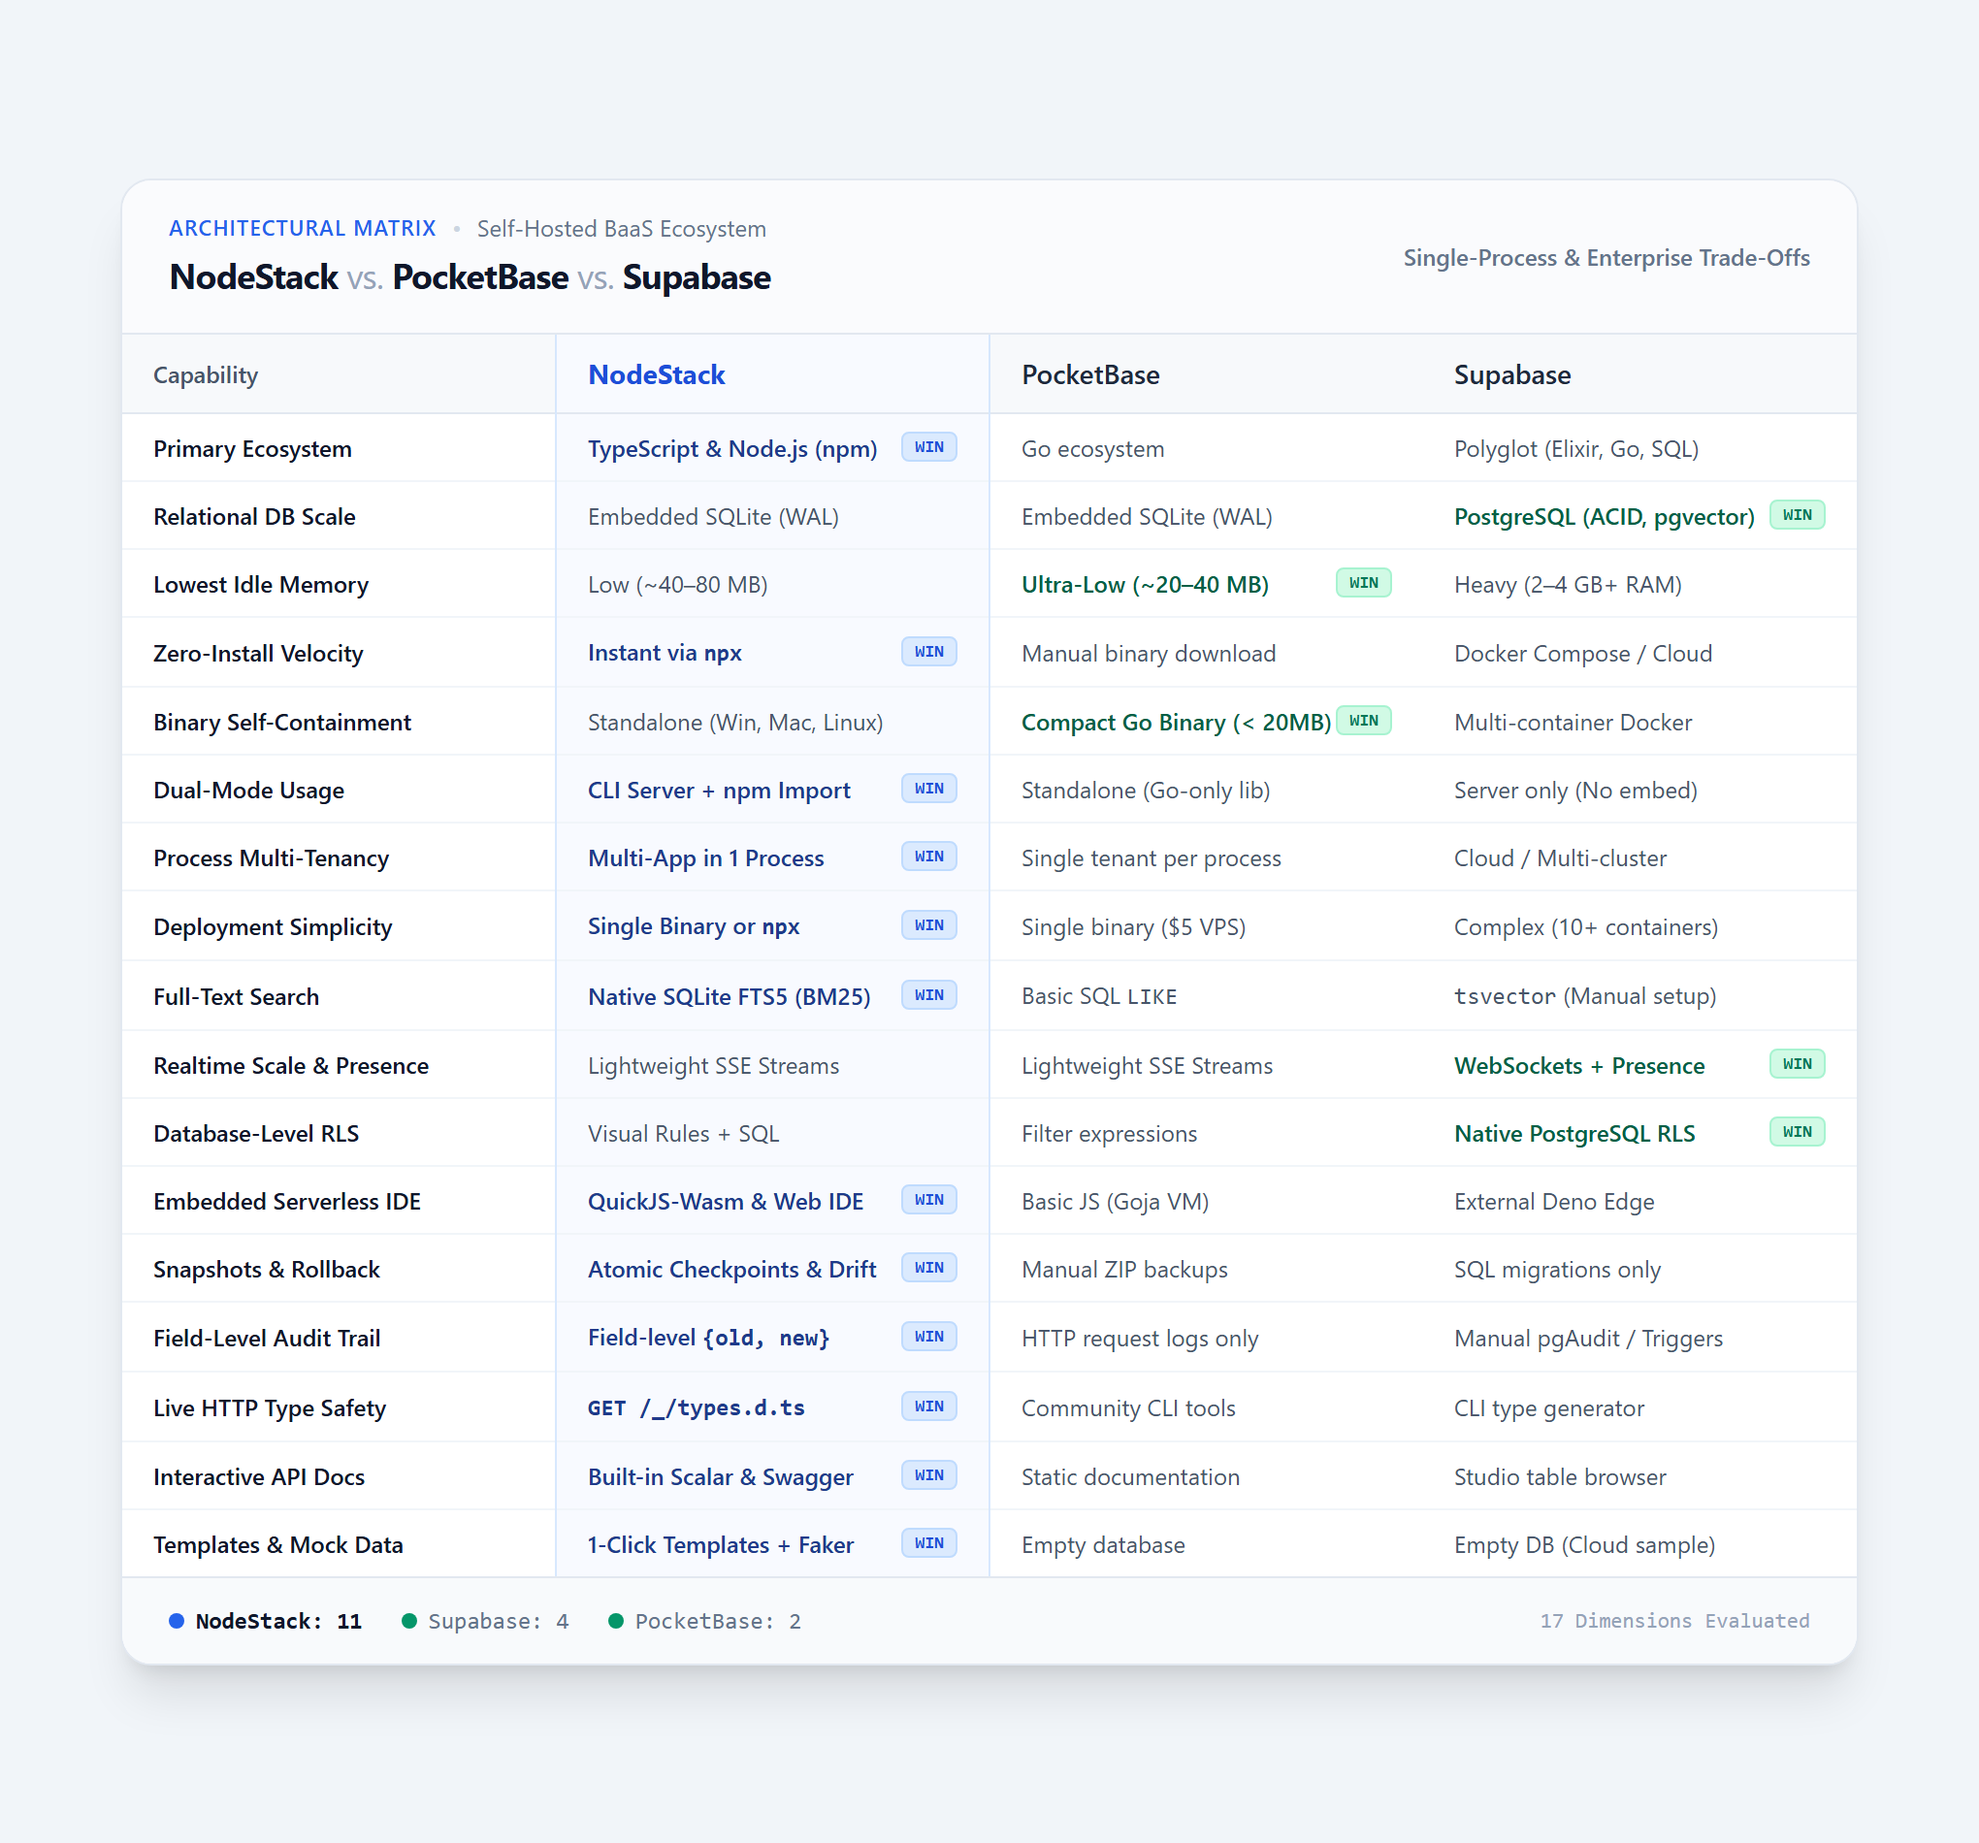
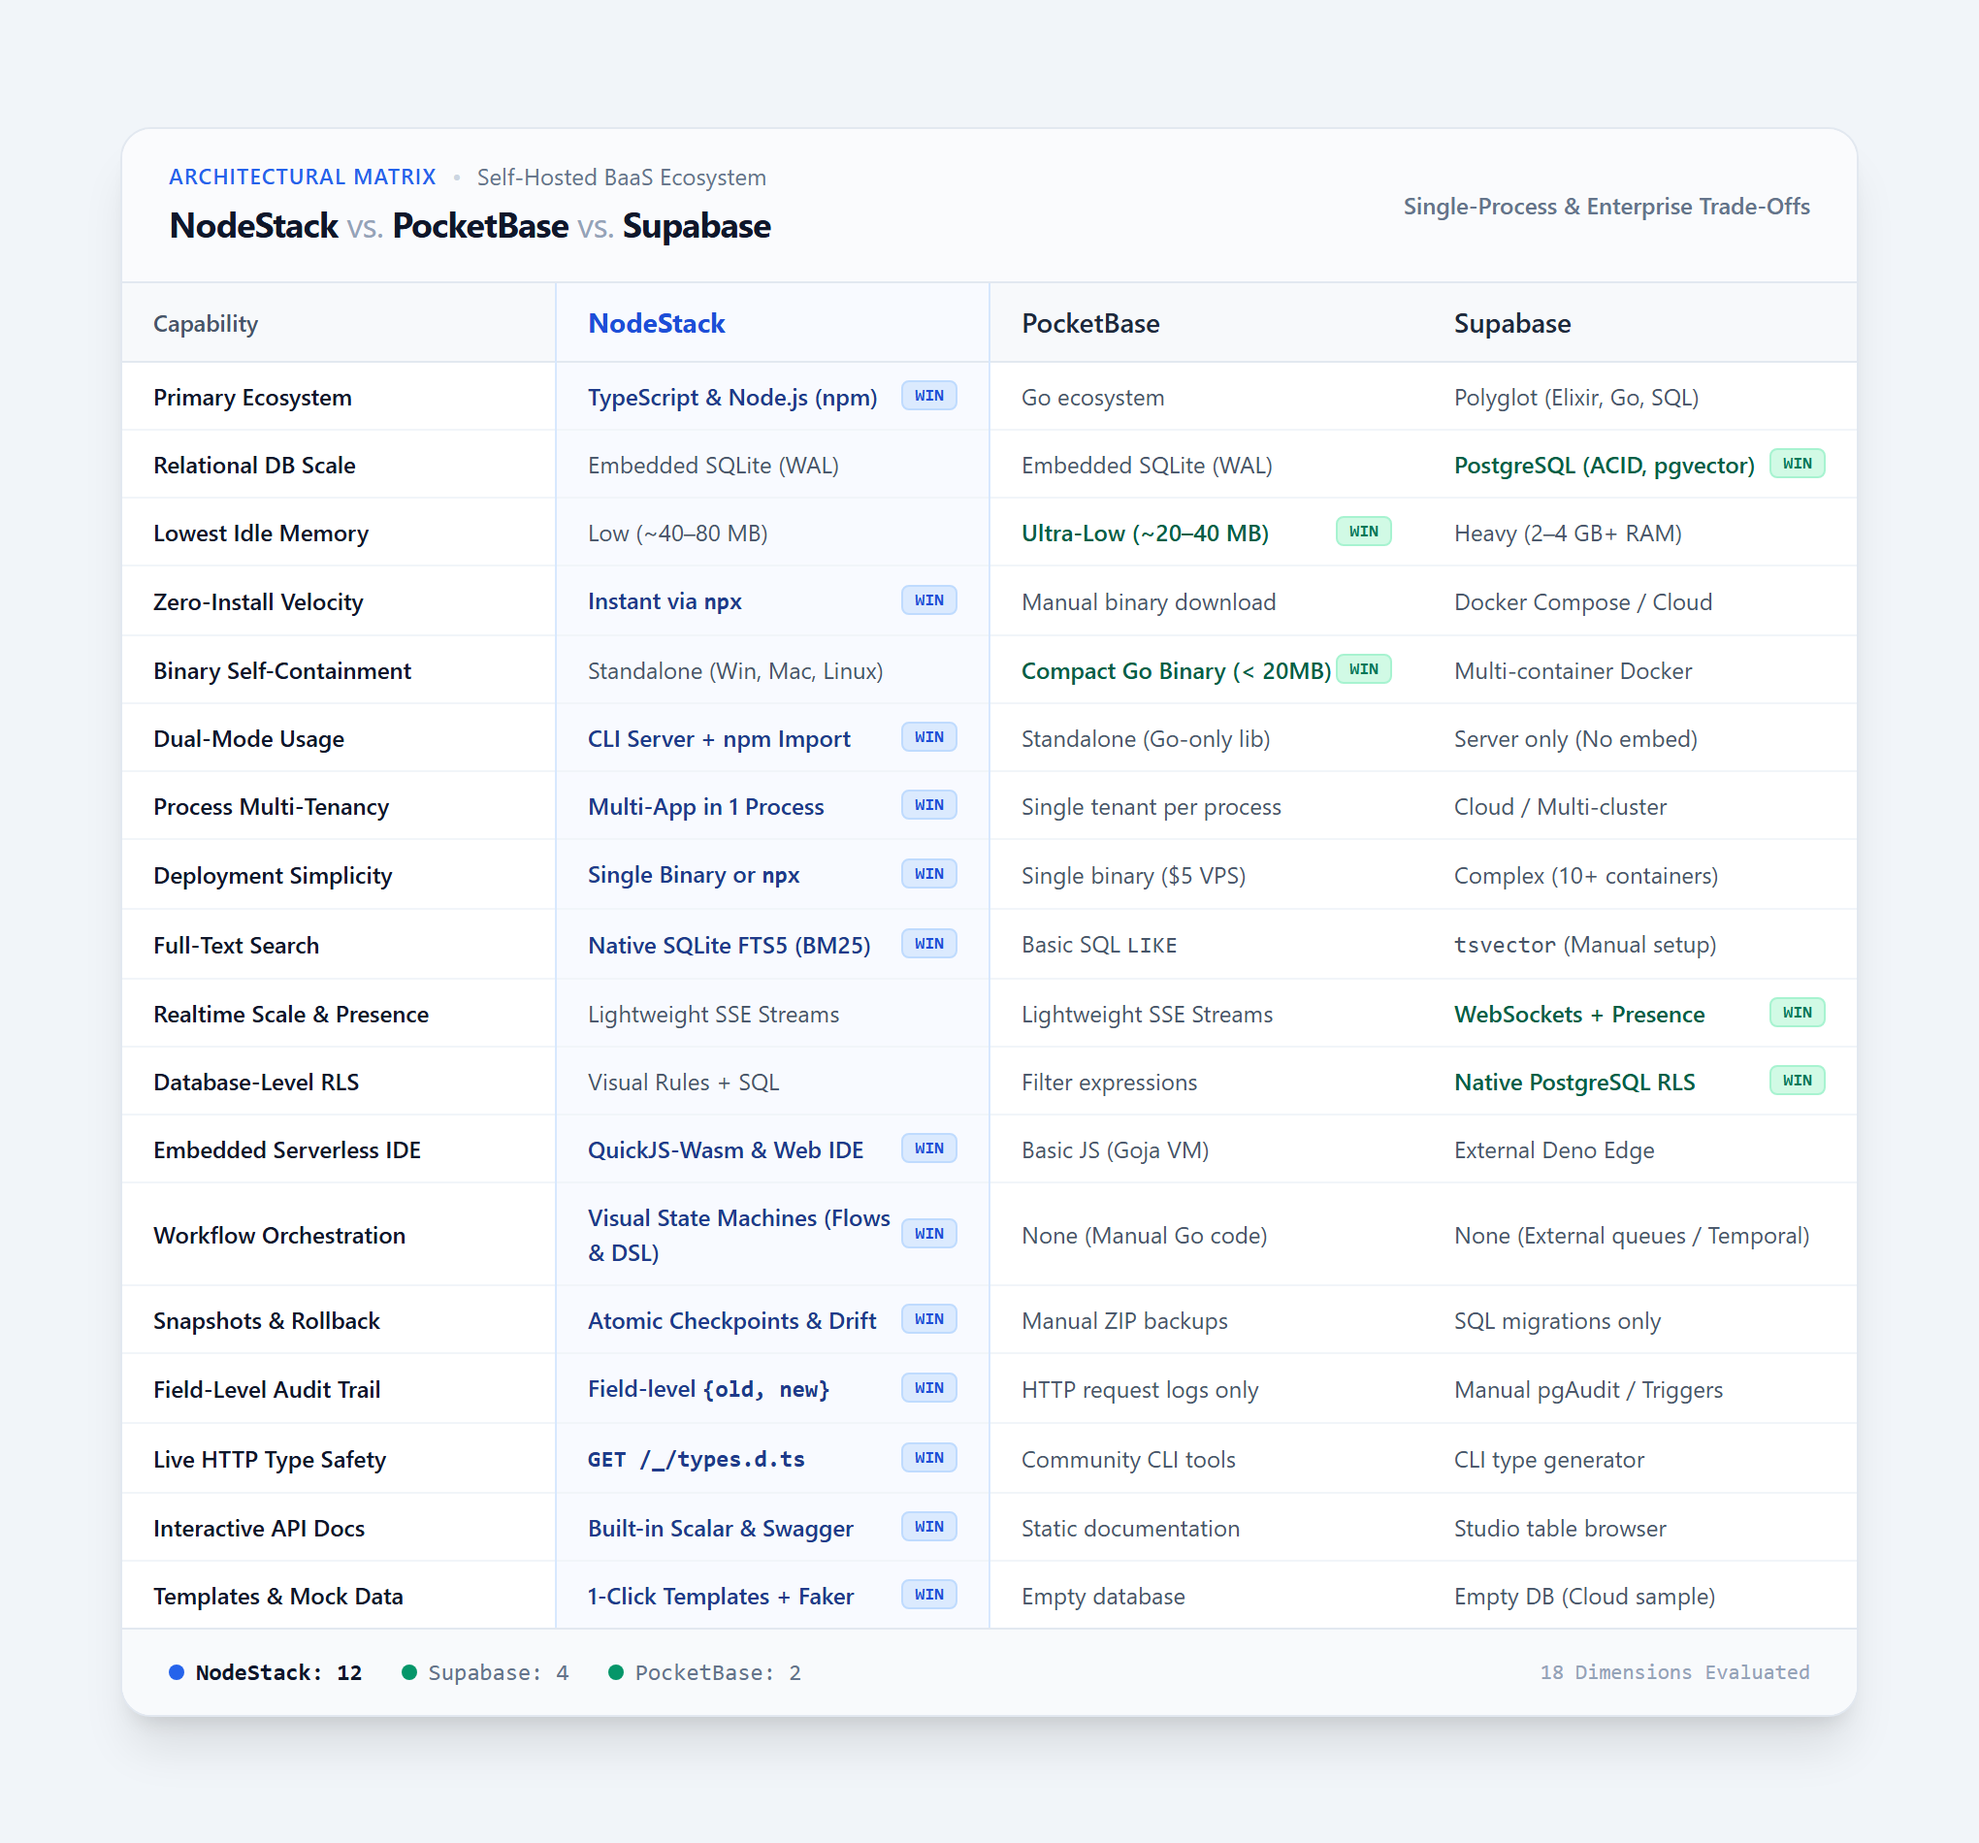
docs: updated comparison matrix

diff --git a/assets/comparison-card.html b/assets/comparison-card.html
@@ -34,7 +34,7 @@
       </div>
     </div>
 
-    <!-- 17-Row Compact Table -->
+    <!-- 18-Row Compact Table -->
     <div class="overflow-x-auto">
       <table class="w-full text-left text-[12px] border-collapse">
         <thead>
@@ -198,6 +198,18 @@
           </tr>
 
           <tr class="hover:bg-slate-50/80 transition-colors">
+            <td class="py-2 px-4 font-medium text-slate-900">Workflow Orchestration</td>
+            <td class="py-2 px-4 nodestack-col border-x border-blue-200/60 font-semibold text-blue-900">
+              <div class="flex items-center justify-between">
+                <span>Visual State Machines (Flows &amp; DSL)</span>
+                <span class="px-1.5 py-0.2 rounded text-[9px] font-mono font-bold bg-blue-100 text-blue-700 border border-blue-200">WIN</span>
+              </div>
+            </td>
+            <td class="py-2 px-4 text-slate-600">None (Manual Go code)</td>
+            <td class="py-2 px-4 text-slate-600">None (External queues / Temporal)</td>
+          </tr>
+
+          <tr class="hover:bg-slate-50/80 transition-colors">
             <td class="py-2 px-4 font-medium text-slate-900">Snapshots &amp; Rollback</td>
             <td class="py-2 px-4 nodestack-col border-x border-blue-200/60 font-semibold text-blue-900">
               <div class="flex items-center justify-between">
@@ -265,7 +277,7 @@
     <div class="px-6 py-3.5 bg-slate-50 border-t border-slate-200 flex items-center justify-between text-xs text-slate-500 font-mono">
       <div class="flex items-center gap-5">
         <span class="text-slate-900 font-semibold flex items-center gap-1.5">
-          <span class="w-2 h-2 rounded-full bg-blue-600"></span> NodeStack: 11
+          <span class="w-2 h-2 rounded-full bg-blue-600"></span> NodeStack: 12
         </span>
         <span class="flex items-center gap-1.5">
           <span class="w-2 h-2 rounded-full bg-emerald-600"></span> Supabase: 4
@@ -275,7 +287,7 @@
         </span>
       </div>
       <div class="text-[11px] text-slate-400">
-        17 Dimensions Evaluated
+        18 Dimensions Evaluated
       </div>
     </div>
 

diff --git a/docs/docs/getting-started/comparison.md b/docs/docs/getting-started/comparison.md
@@ -44,6 +44,7 @@ This guide provides an objective architectural comparison to help you evaluate w
 | **Realtime Scale & Presence** | Lightweight SSE Streams | Lightweight SSE Streams | **WebSockets + Presence (Phoenix Engine)** |
 | **Database-Level RLS Security** | Visual Rules + SQL expressions | Filter expressions | **PostgreSQL Native RLS (In-kernel)** |
 | **Embedded Serverless IDE** | **QuickJS-Wasm (Sub-ms cold starts & Web IDE)** | Basic JS (via Goja VM) | External Deno Edge Functions |
+| **Workflow Orchestration** | **Embedded Visual State Machines (Flows & DSL)** | None (Manual Go code) | None (External queues / Temporal) |
 | **Application Snapshots & Rollback** | **Atomic checkpoints, drift detection & 1-click restore** | Manual ZIP file backups | Sequential SQL migrations only |
 | **Immutable Audit Trail** | **Field-level `{ old, new }` diffs & actor attribution** | HTTP access request logs only | Requires custom triggers or pgAudit |
 | **Live HTTP Type Safety** | **Live dynamic `GET /_/types.d.ts` endpoint** | Community CLI tools (`pocketbase-typegen`) | CLI typegen (`supabase gen types`) |
@@ -78,6 +79,12 @@ This guide provides an objective architectural comparison to help you evaluate w
 * **PocketBase** relies on standard SQL `LIKE '%query%'` scans, which do not scale well for large text collections and lack relevance ranking.
 * **Supabase** provides PostgreSQL's powerful `tsvector` full-text search and `pgvector` extensions, but requires configuring database triggers, tsvector columns, and custom GIN indices.
 
+### 5. Workflow Orchestration & Business Logic
+
+* **NodeStack (v2.3.0)** includes an embedded state machine engine (**Function Flows**). You can visually build or define JSON state machines with 9 state types (`Task`, `Choice`, `Map`, `Parallel`, `Loop`, `Pass`, `Wait`, `Succeed`, `Fail`), trigger them synchronously via HTTP or asynchronously on database lifecycle events (`<collection>:afterCreate`), and leverage automated retries and function-flow referential integrity protection.
+* **PocketBase** has no workflow orchestration subsystem; multi-step business logic requires writing custom Go code or procedural JavaScript hooks with manual error recovery.
+* **Supabase** does not provide an integrated workflow engine; multi-step orchestration requires provisioning external systems like Temporal, AWS Step Functions, or custom `pg_cron` jobs.
+
 ---
 
 ## Decision Framework: When to Choose What
@@ -87,6 +94,7 @@ This guide provides an objective architectural comparison to help you evaluate w
 2. **You want single-process multi-tenancy:** You need to host multiple isolated client databases (e.g. for SaaS tenants, clients, or staging environments) inside a single lightweight process.
 3. **You want zero-install developer velocity:** Running `npx @nodestackapp/server start` gives you an instant backend, admin dashboard, and REST API in seconds without downloading binaries or configuring Docker.
 4. **You need built-in state snapshots & audit trails:** You want atomic checkpoints with drift detection and field-level diff auditing without installing external tools.
+5. **You need built-in workflow orchestration:** You want to coordinate multi-step transactional logic, conditional branching, and background tasks visually without external services or third-party queue infrastructure.
 
 ### Choose PocketBase if:
 1. **Minimal binary footprint is paramount:** You need a single < 20MB standalone Go binary with ~20MB of idle RAM.
